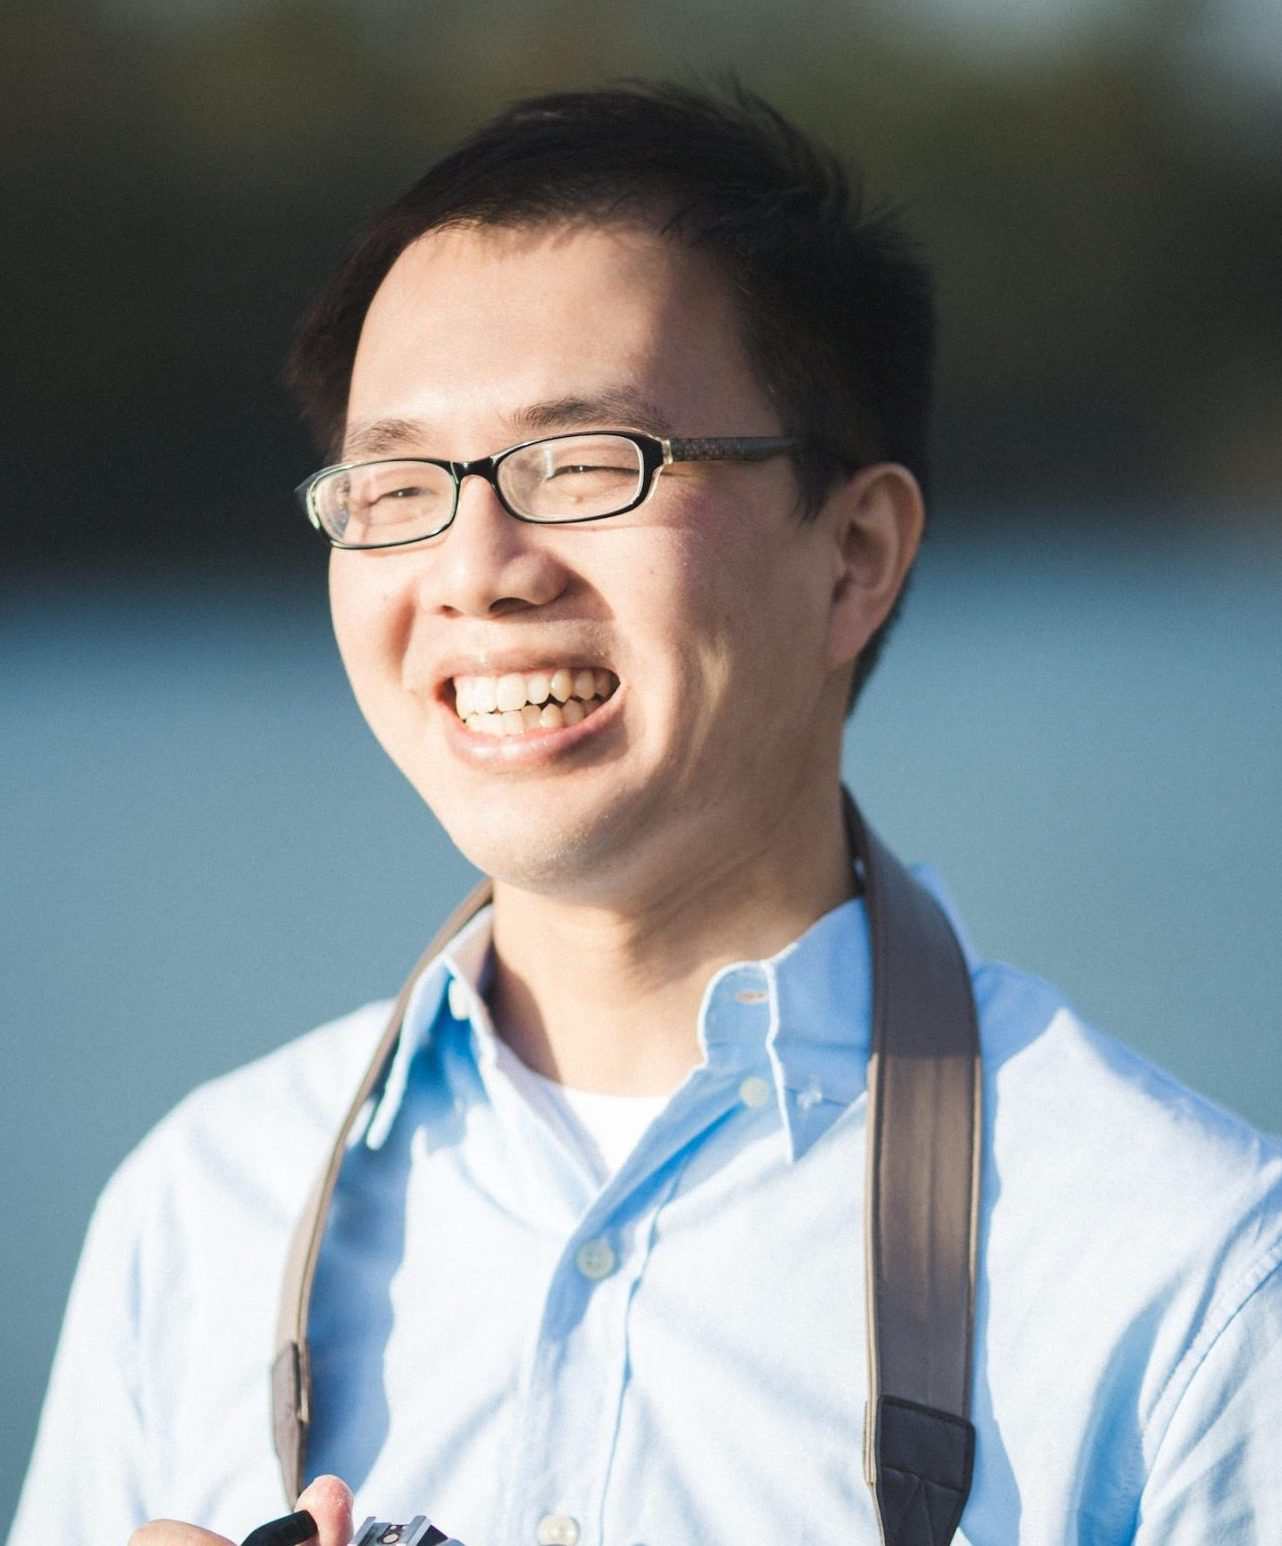
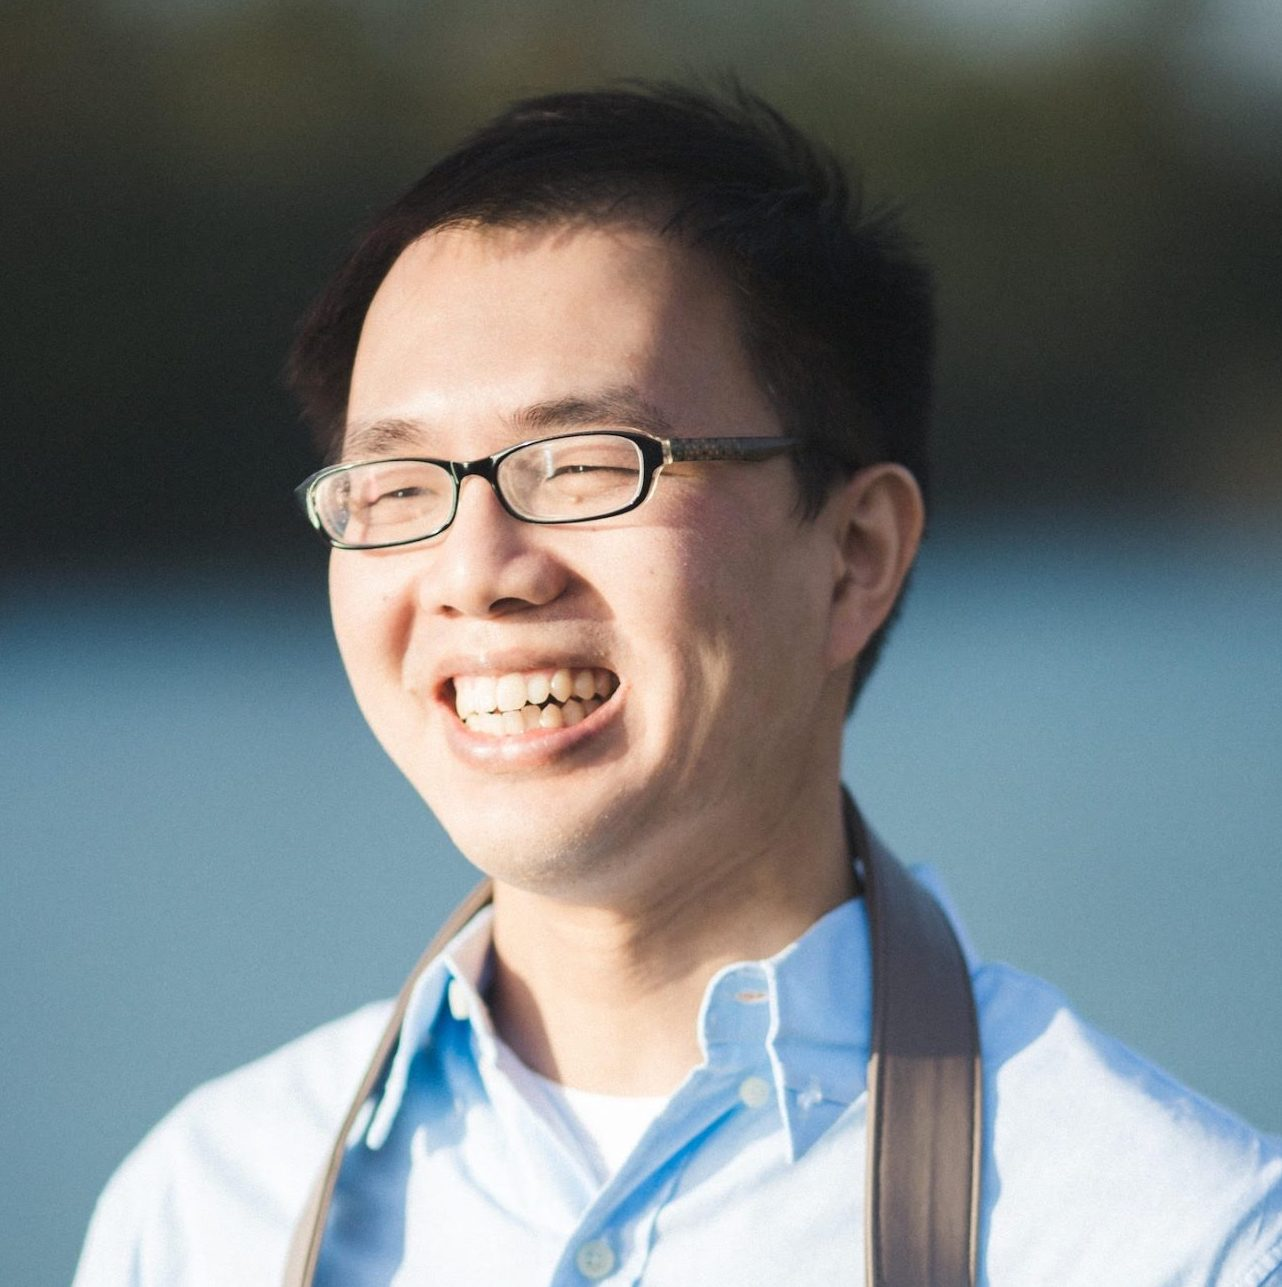
added team

diff --git a/themes/chaklam/layouts/index.html b/themes/chaklam/layouts/index.html
@@ -357,7 +357,7 @@
         <div class="col-lg-3 col-md-6 d-flex align-items-stretch" data-aos="fade-up" data-aos-delay="200">
           <div class="member">
             <div class="member-img">
-              <img src="/img/team/chaklam.jpg" class="img-fluid" alt="">
+              <img src="/img/team/raymond.jpg" class="img-fluid" alt="">
               <div class="social">
                 <a href=""><i class="bi bi-twitter"></i></a>
                 <a href=""><i class="bi bi-facebook"></i></a>
@@ -375,7 +375,7 @@
         <div class="col-lg-3 col-md-6 d-flex align-items-stretch" data-aos="fade-up" data-aos-delay="300">
           <div class="member">
             <div class="member-img">
-              <img src="/img/team/chaklam.jpg" class="img-fluid" alt="">
+              <img src="/img/team/sanjeet.jpg" class="img-fluid" alt="">
               <div class="social">
                 <a href=""><i class="bi bi-twitter"></i></a>
                 <a href=""><i class="bi bi-facebook"></i></a>
@@ -385,7 +385,7 @@
             </div>
             <div class="member-info">
               <h4>Sanjeet Amatya</h4>
-              <span>CBO</span>
+              <span>CEO, CBO</span>
             </div>
           </div>
         </div>
